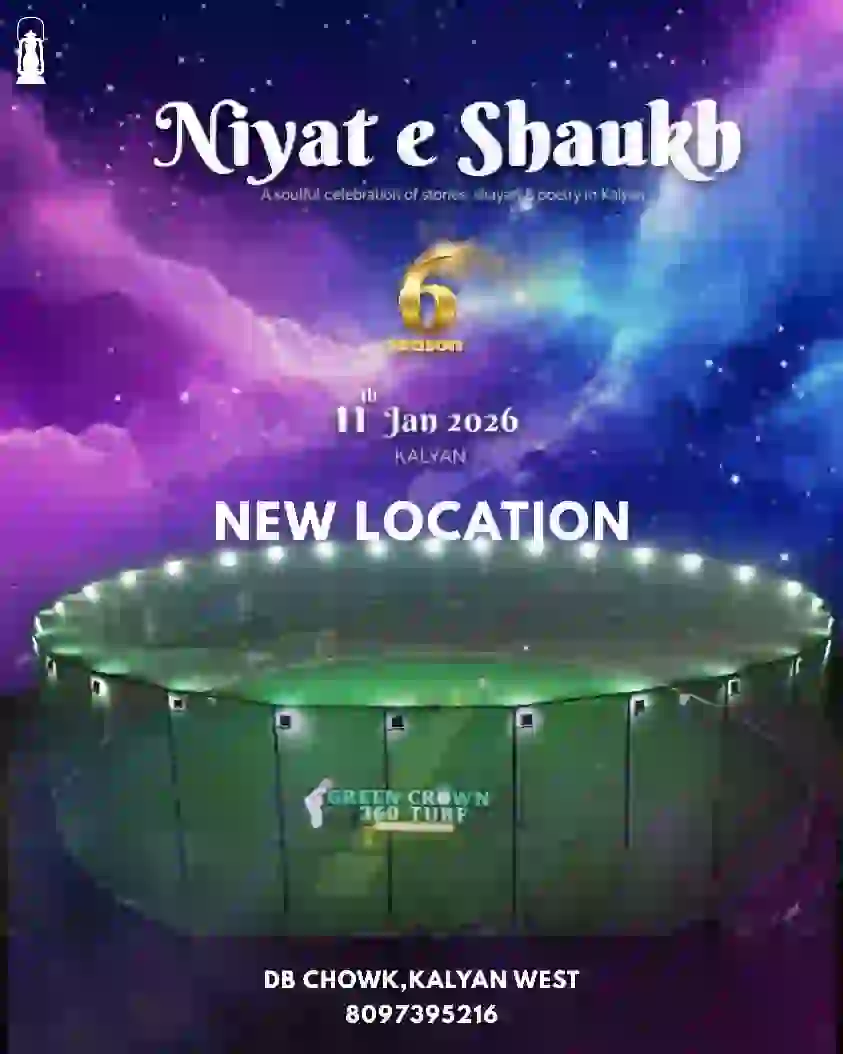
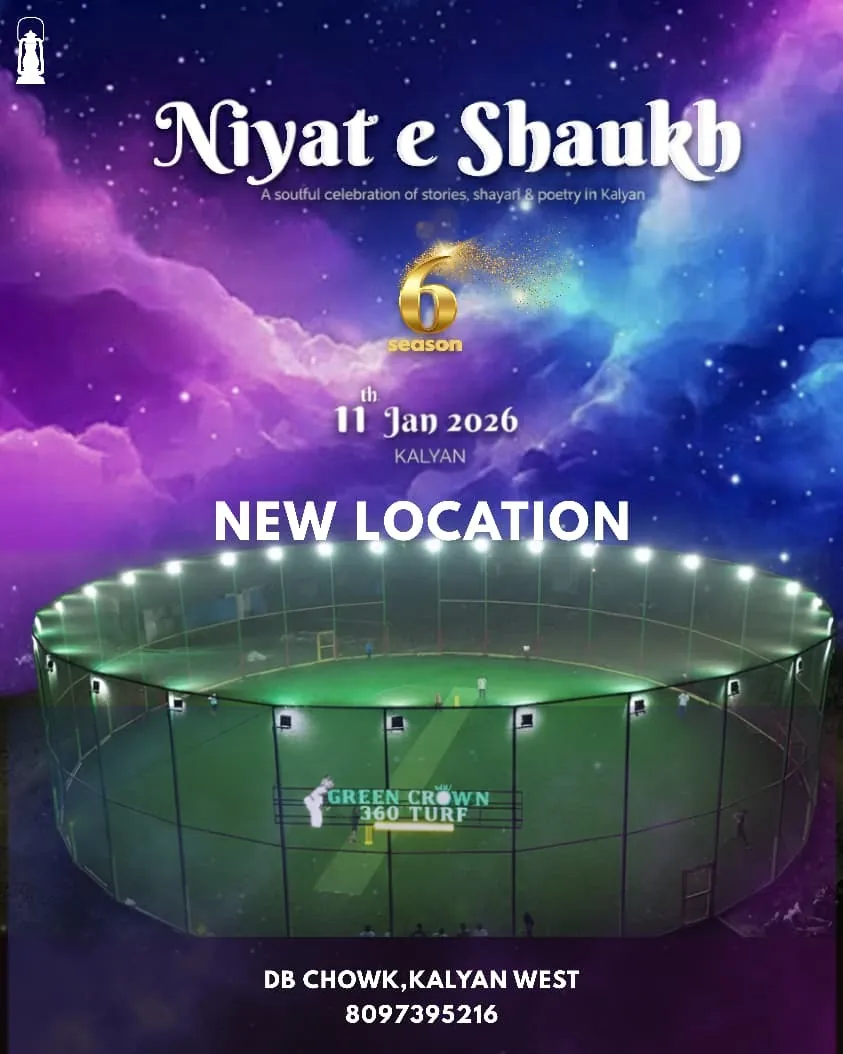
complelte

diff --git a/src/components/mehfil.tsx b/src/components/mehfil.tsx
@@ -300,7 +300,7 @@ export default function MehfilGallery() {
                   src={featuredImage.image}
                   alt="Featured Mehfil photo"
                   fill
-                  className="object-cover"
+                  className="object-contain"
                   priority
                 />
               </div>
@@ -325,7 +325,7 @@ export default function MehfilGallery() {
                     src={item.image}
                     alt={`Mehfil photo ${item.id}`}
                     fill
-                    className="object-cover"
+                    className="object-contain"
                   />
                 </div>
               </div>
